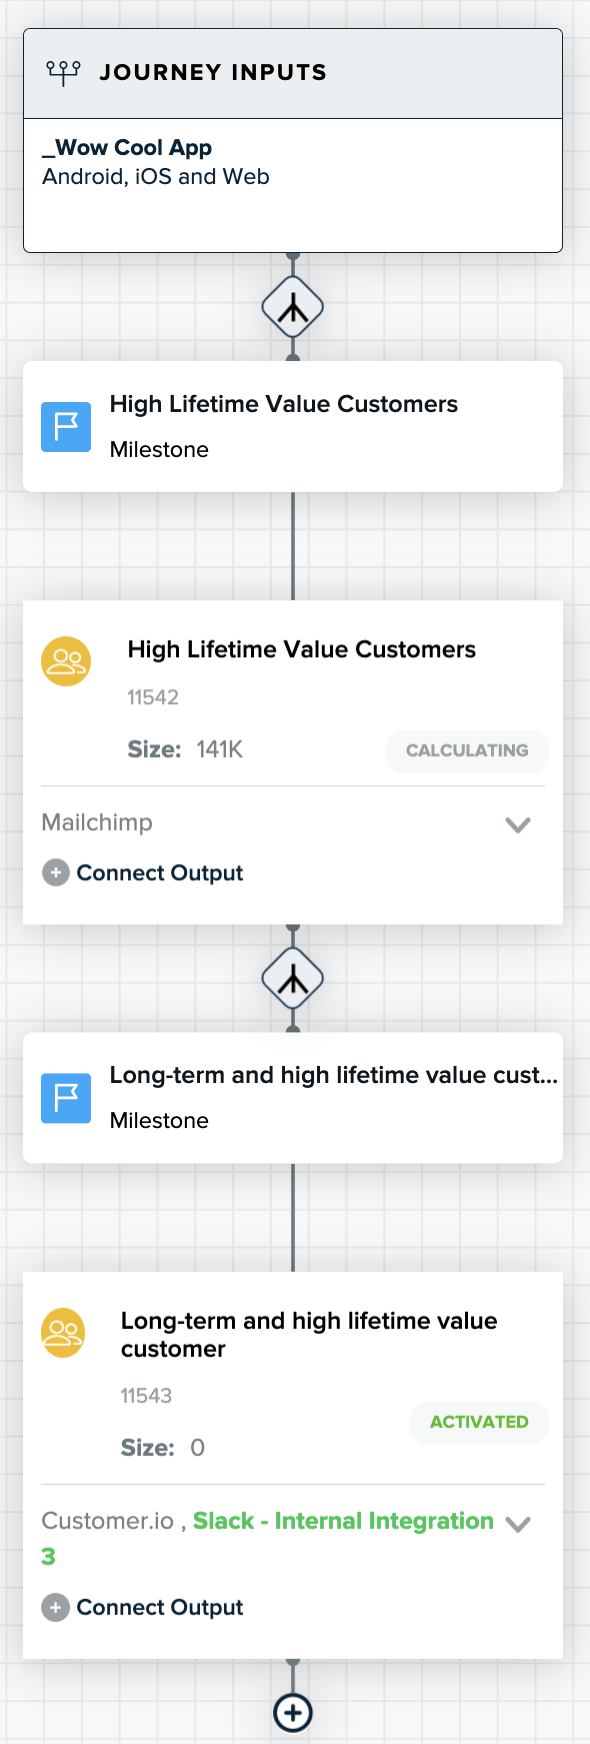
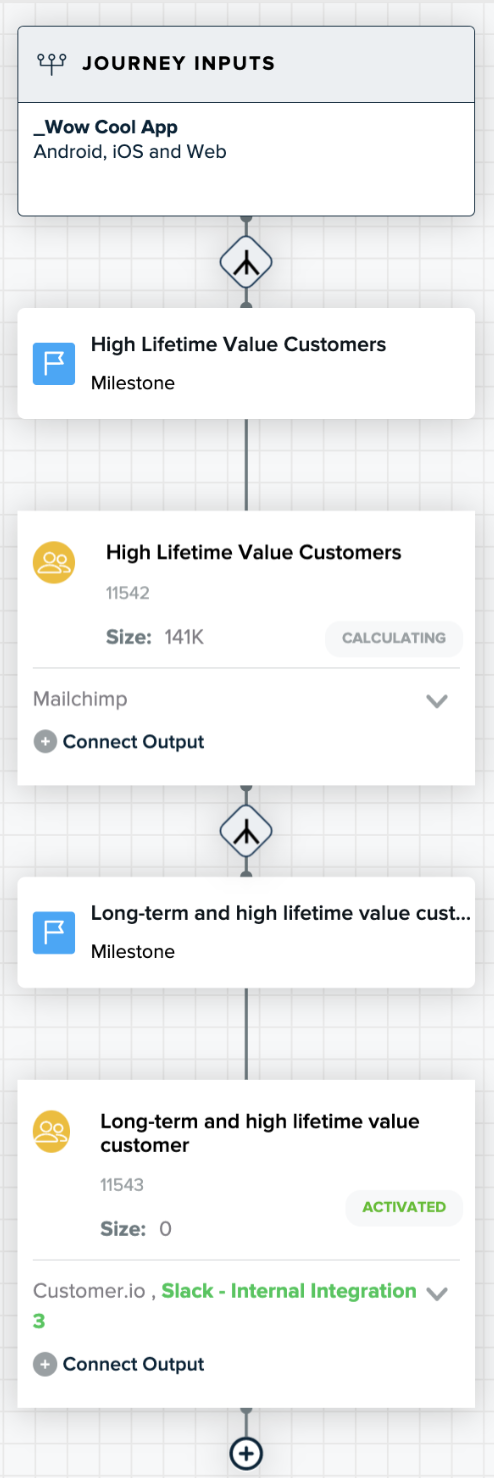
Replace stale screenshots (#2264)
* replace stale screenshots

* fixing the fix

* fixing the fix part deux

* clarify one sentence

* fixing link to image

diff --git a/src/pages/guides/platform-guide/journeys/use-journeys/index.md b/src/pages/guides/platform-guide/journeys/use-journeys/index.md
@@ -27,15 +27,15 @@ To create a journey:
 6. Click the milestone to add a name, and define the criteria. You are now in the real-time audience builder, and can [define criteria](/guides/platform-guide/audiences/#audience-criteria).
 7.  Click **Save**. The canvas displays the milestone you just created and the audience for that milestone.
 
-    <img alt="journey with one milestone and one connection" src="/images/journeys/simple-journey.png" width="250">
+    <img alt="journey with one milestone and one connection" src="/images/journeys/simple-path.png" width="250">
 
     You can connect to an output now or wait until you've created all the milestones. See [Configure connections](#step-2-configure-connections) for details. 
 
-8. You can either define the next step in the existing path, or split the path and create one or more additional milestones:
+8. You can either define the next step in the existing path, or split the path by clicking the split icon, and create one or more additional milestones:
 
-    <img alt="branch and milestone controls" src="/images/journeys/path-vs-milestone.png" width="450">
+    <img alt="branch and milestone controls" src="/images/journeys/many-paths.png" width="450">
 
-    * Click the plus sign under the milestone you just created to continue the journey, and click **Milestone** from the ADD dropdown. The following image illustrates adding a second milestone to the same path as the first one.
+    * Click the plus sign under the **Journey Inputs** you just created to continue the journey, and click **Milestone** from the ADD dropdown. The following image shows  a second milestone in the same path as the first one.
     <img alt="journey with one milestone" src="/images/journeys/one-path.png" width="250">
     * Click the branch symbol above the milestone you just created to split the path into multiple journeys, and click **Path** to create a new path and milestone, or **Remaining User Path** to create a milestone for all audience members who do not meet criteria for any other milestone at this level. The following image illustrates splitting the path with a remaining user milestone.          
     <img alt="Remaining user milestone" src="/images/journeys/one-milestone-plus-ru.png" width="450">

diff --git a/src/pages/guides/platform-guide/journeys/overview/index.md b/src/pages/guides/platform-guide/journeys/overview/index.md
@@ -28,11 +28,11 @@ At the start of the journey, you have access to all the users available from all
 4. Verify that the data flow is behaving as you expect using the same tools and techniques you use for an integration.
 5. When a journey needs to be changed, you can modify or delete milestones. 
 
-The following diagram shows a simple journey with two milestones: 
+The following diagram shows a simple journey with one milestone: 
 
 <img alt="journey with one milestone" src="/images/journeys/one-path.png" width="250">
 
-In this journey, all high-value customers are sent an email, and then all of the high-value customers who are also long-term customers are sent to an internal Slack channel and two other outputs.
+In this journey, all high-value customers are sent an email. Next, all of the high-value customers who are also long-term customers are sent to an internal Slack channel, and the audiences are also sent to additional outputs for further actions.
 
 Notice the following:
 
